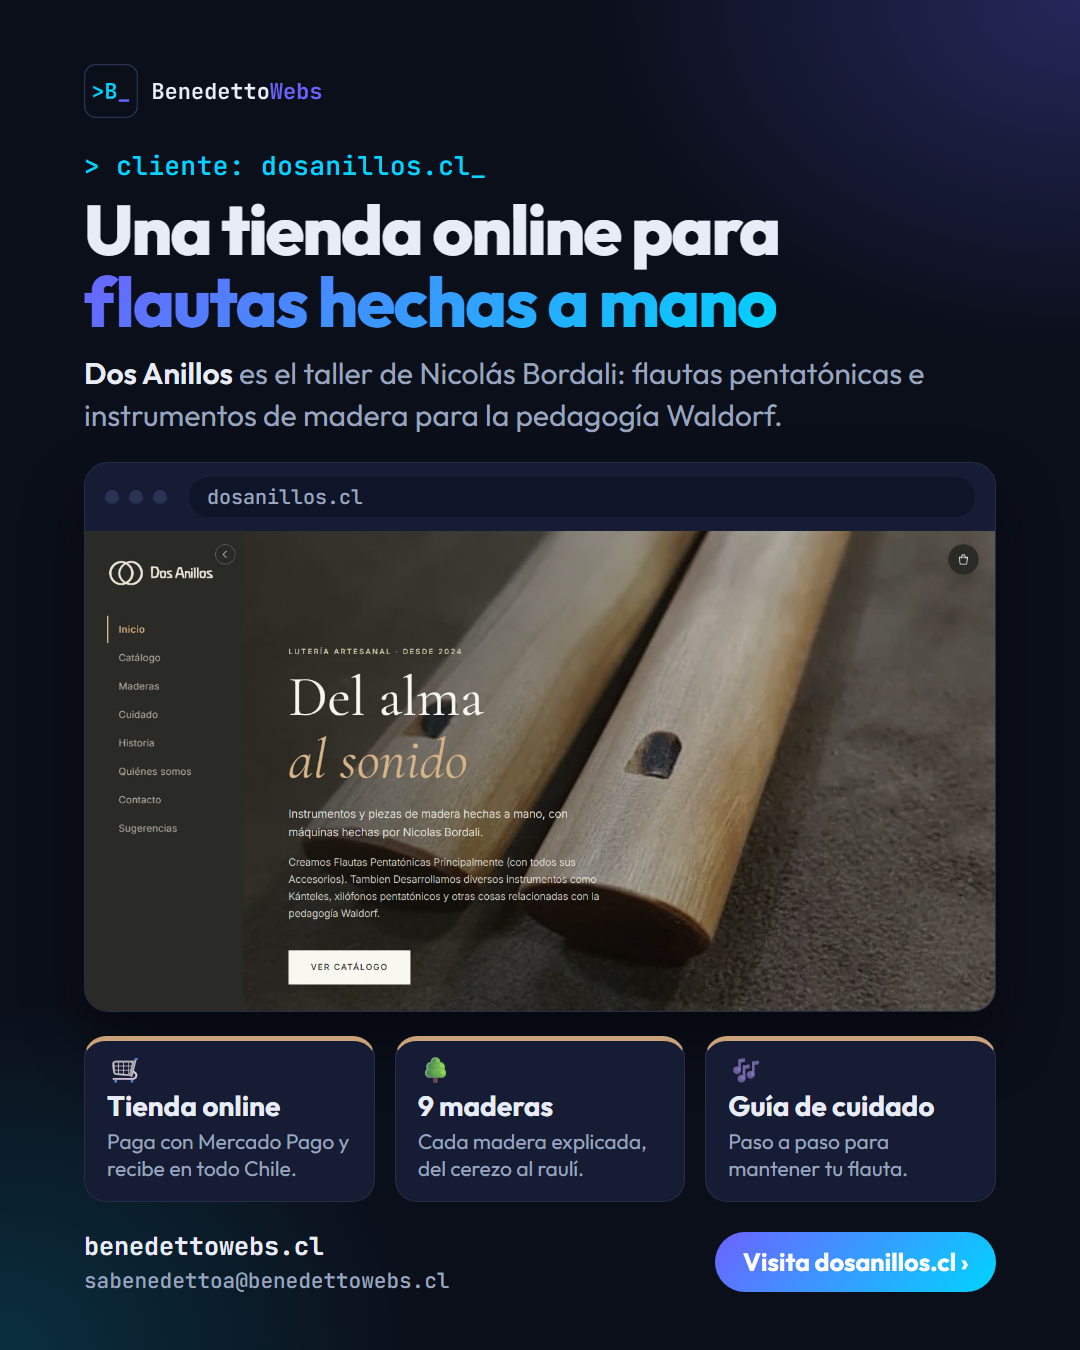
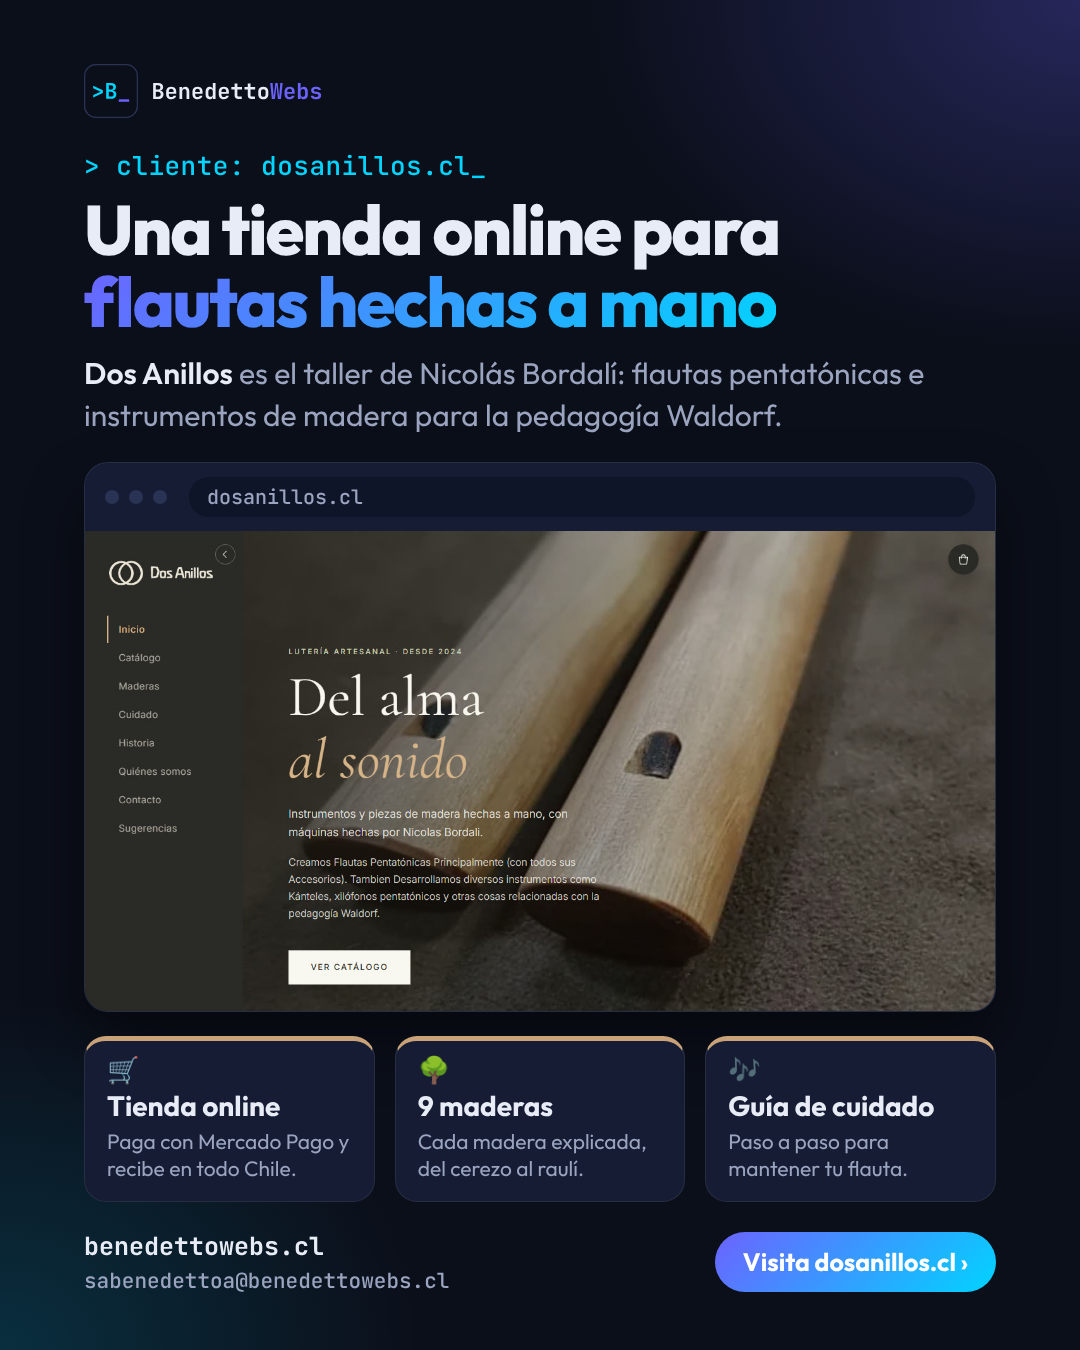
Apellido con tilde: Nicolás Bordalí en la web y el post de Dos Anillos
Claude-Session: https://claude.ai/code/session_01MUcqreKNc4scgZfuZVE4WP

diff --git a/posts/dosanillos.html b/posts/dosanillos.html
@@ -86,7 +86,7 @@
 
   <p class="eyebrow">&gt; cliente: dosanillos.cl_</p>
   <h1>Una tienda online para<br><span class="grad">flautas hechas a mano</span></h1>
-  <p class="lead"><strong>Dos Anillos</strong> es el taller de Nicolás Bordali: flautas pentatónicas e instrumentos de madera para la pedagogía Waldorf.</p>
+  <p class="lead"><strong>Dos Anillos</strong> es el taller de Nicolás Bordalí: flautas pentatónicas e instrumentos de madera para la pedagogía Waldorf.</p>
 
   <div class="browser">
     <div class="bar"><span class="dot"></span><span class="dot"></span><span class="dot"></span><span class="url">dosanillos.cl</span></div>

diff --git a/index.html b/index.html
@@ -227,7 +227,7 @@
             <div class="project-body">
               <span class="project-tag project-tag-client">Cliente</span>
               <h3>dosanillos.cl</h3>
-              <p>Dos Anillos: flautas pentatónicas e instrumentos de madera hechos a mano por Nicolás Bordali.</p>
+              <p>Dos Anillos: flautas pentatónicas e instrumentos de madera hechos a mano por Nicolás Bordalí.</p>
               <span class="project-link">Visitar sitio →</span>
             </div>
           </a>
